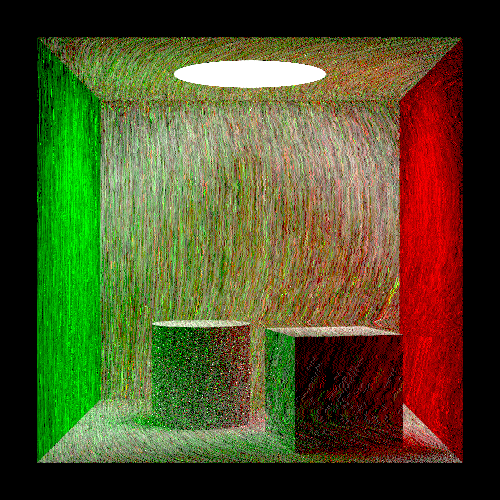
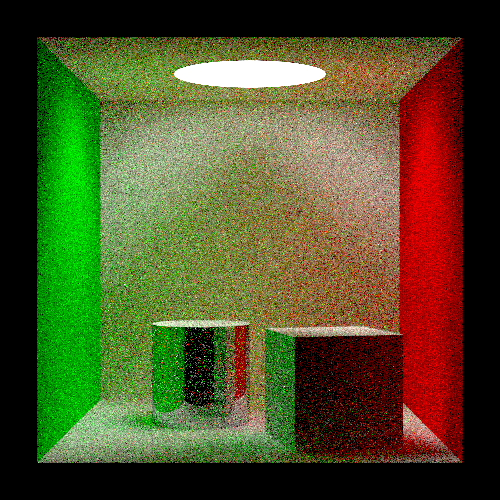
修改随机数生成器

diff --git a/SchwiPT/core/scene.h b/SchwiPT/core/scene.h
@@ -183,14 +183,15 @@ namespace schwi {
 			MaterialSPtr red = std::make_shared<Matte>(redConst);
 			MaterialSPtr green = std::make_shared<Matte>(greenConst);
 			MaterialSPtr black = std::make_shared<Matte>(blackConst);
-			MaterialList materialList{ white,red,green,black };
+			MaterialSPtr mirror = std::make_shared<Mirror>(whiteConst);
+			MaterialList materialList{ white,red,green,black,mirror };
 
 			std::shared_ptr<AreaLight> disk_light = std::make_shared<AreaLight>(disk->frame->position(), 1, Color(5, 5, 5), disk.get());
 			LightList lightList{ disk_light };
 
 			PrimitiveList primitiveList{
 				{box.get(),white.get(),nullptr},
-				{cy.get(),white.get(),nullptr},
+				{cy.get(),mirror.get(),nullptr},
 				{cover.get(),white.get(),nullptr},
 				//{box2.get(),white.get(),nullptr},
 				{up.get(),white.get(),nullptr},

diff --git a/SchwiPT/samplers/random.h b/SchwiPT/samplers/random.h
@@ -4,7 +4,7 @@
 #include<cameras/camera.h>
 
 namespace schwi {
-	class RandomSampler :public Sampler{
+	class RandomSampler :public Sampler {
 	public:
 		using Sampler::Sampler;
 
@@ -21,7 +21,28 @@ namespace schwi {
 		}
 
 		CameraSample GetCameraSample(Point2d p)override {
-			return { p + rng.UniformVector2d() };
+			return { p + GetVector2d() };
+		}
+	};
+
+	class CRandomSampler :public Sampler {
+	public:
+		using Sampler::Sampler;
+
+		std::unique_ptr<Sampler> Clone()override {
+			return std::make_unique<CRandomSampler>(SamplePerPixel);
+		}
+
+		double GetDouble()override {
+			return std::rand() / (RAND_MAX + 1.);
+		}
+
+		Vector2d GetVector2d()override {
+			return Vector2d(GetDouble(), GetDouble());
+		}
+
+		CameraSample GetCameraSample(Point2d p)override {
+			return { p + GetVector2d() };
 		}
 	};
 }

diff --git a/SchwiPT/core/schwi.h b/SchwiPT/core/schwi.h
@@ -3,13 +3,15 @@
 // Global Include Files
 #include<algorithm>
 #include<iostream>
+#include<fstream>
 #include<memory>
 #include<string>
 #include<vector>
 #include<initializer_list>
 #include<typeinfo>
 #include<omp.h>
-#include <functional>
+#include<functional>
+#include<chrono>
 
 #include<AssetManager.h>
 #include<math/math.h>
@@ -25,6 +27,7 @@
 #pragma warning(disable : 4996)
 
 namespace schwi {
+
 	// Global Manager
 	static AssetManager<SchwiImage> imageManager;
 	static AssetManager<Model> modelManager;
@@ -44,7 +47,6 @@ namespace schwi {
 	struct CameraSample;
 	class Shape;
 	class Sampler;
-	class RandomSampler;
 	class BSDF;
 	struct BSDFSample;
 	class Material;

diff --git a/SchwiLib/math/RNG.h b/SchwiLib/math/RNG.h
@@ -7,7 +7,8 @@
 namespace schwi {
 	class RNG {
 	public:
-		RNG(int seed=1234):rngEngine(seed){}
+		RNG(int seed=std::chrono::system_clock::now().time_since_epoch().count())
+			:rngEngine(seed){}
 
 		double UniformDouble() {
 			return doubleDist(rngEngine);

diff --git a/SchwiPT/core/main.cpp b/SchwiPT/core/main.cpp
@@ -43,6 +43,5 @@ int main() {
 #if defined(_WIN32) || defined(_WIN64)
 	system("mspaint out.png");
 #endif
-
 	return 0;
 }
